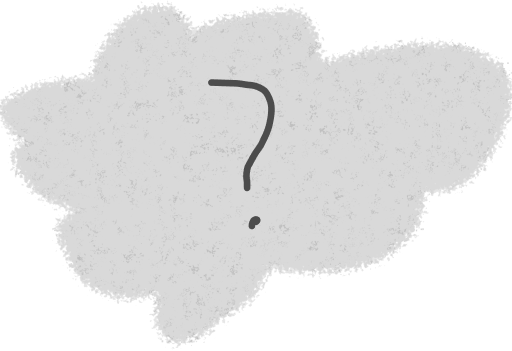
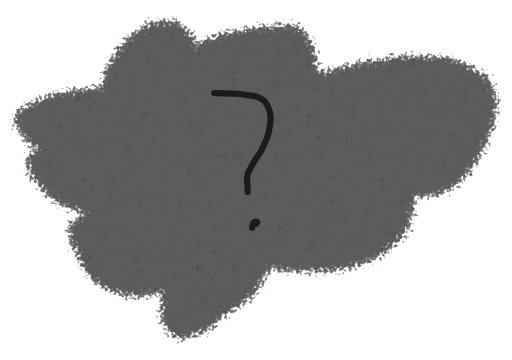
darker clouds

diff --git a/src/components/SectionMystery.tsx b/src/components/SectionMystery.tsx
@@ -1,7 +1,7 @@
-import { Gltf, useScroll, useTexture } from "@react-three/drei";
+import { Gltf, useTexture } from "@react-three/drei";
 import { useFrame } from "@react-three/fiber";
 import { useRef } from "react";
-import type { Group, SpriteMaterial } from "three";
+import { type Group, type SpriteMaterial } from "three";
 import { degToRad } from "three/src/math/MathUtils.js";
 import { J_HAT } from "../util/hats";
 
@@ -11,9 +11,9 @@ export function SectionMystery() {
   const cloud3 = useTexture("/clouds/3.png");
   const cloud4 = useTexture("/clouds/4.png");
   const clouds = [cloud1, cloud2, cloud3, cloud4];
+
   const cloud = useRef<SpriteMaterial>(null);
 
-  const scroll = useScroll();
   const sat = useRef<Group>(null);
 
   useFrame(({ clock }) => {
@@ -39,12 +39,12 @@ export function SectionMystery() {
         <spriteMaterial transparent map={texture} />
       </sprite> */}
 
-      <pointLight decay={0} />
+      <pointLight decay={0} intensity={4} />
 
       <Gltf src="/models/psyche-sat.glb" scale={2 ** -4} ref={sat} />
 
       <sprite>
-        <spriteMaterial ref={cloud} map={cloud1} />
+        <spriteMaterial transparent ref={cloud} map={cloud1} />
       </sprite>
 
       {/* <mesh>
